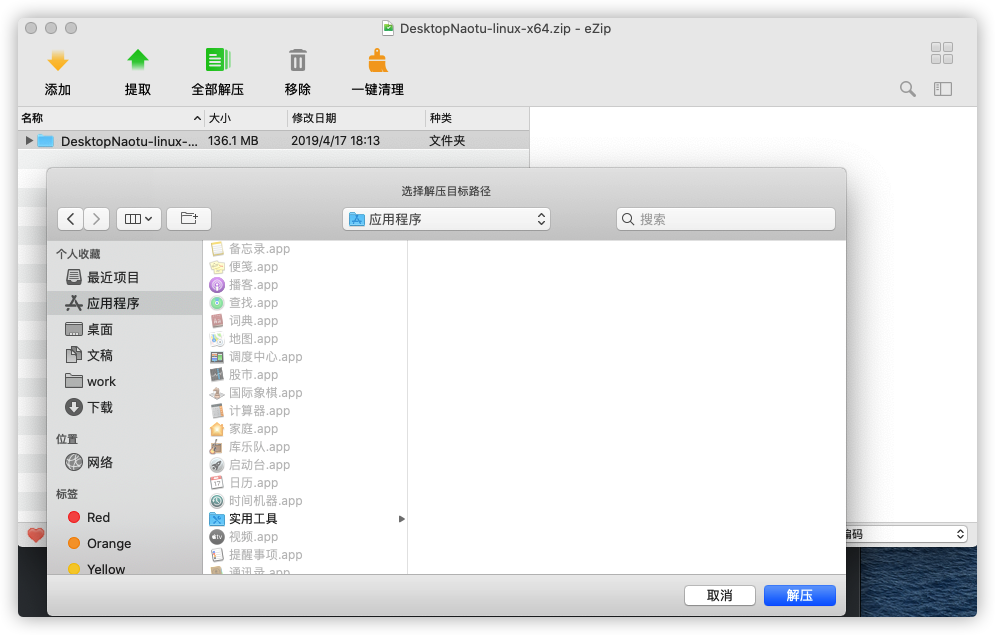
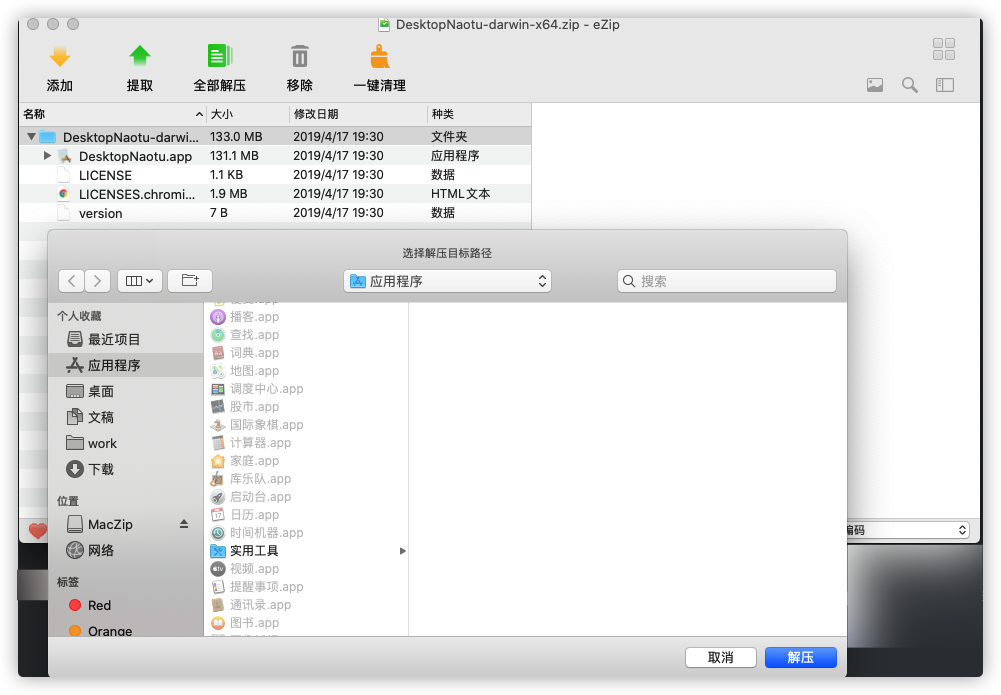
完成

diff --git a/contents/JavaScript/DesktopNaotu/content.md b/contents/JavaScript/DesktopNaotu/content.md
@@ -1,4 +1,4 @@
-# 标题
+# 被收费绘图工具 PUA 了怎么办？来看看这个老实工具吧
 
 ![1](images/1.jpg)
 
@@ -6,15 +6,15 @@
 
 大家好！这里是 HelloGitHub 推出的[《讲解开源项目》](https://github.com/HelloGitHub-Team/Article)系列，今天给大家带来的一款基于 Electron 和 PHP 实现的**桌面工具**开源项目——**DesktopNaotu**（桌面版脑图）。
 
-不知道各位小伙伴有没有发现，现在许多工作岗位与图表制作的接触越来越多，时不时给你来个需求，就像渣 * 在 PUA 你。市面上的多数图表制作软件要么收费，要么让充 VIP 。充个月卡，很有可能只用了1次。这不是浪费钱嘛！
+不知道各位小伙伴有没有发现，现在许多工作岗位与图表制作的接触越来越多，时不时给你来个需求。市面上的多数图表制作软件要么收费，要么让充 VIP 。充个月卡，很有可能只用了1次。这两件事加在一起就像渣 * 一边 PUA 你，一边还骗你钱！
 
-如果你身边有这样的朋友，请善待 TA ，没事给 TA 点个赞
+如果你身边有这样的朋友，请介绍给我 ，我来负责
 
-如果你没有，那你现在有了，很不幸我就是其中之一
+如果你没有，那你现在有了，因为很不幸我就是被 PUA 的一个
 
 ![](images/2.jpg)
 
-好产品收费当然无可厚非，不过你可是 HG 的读者，而我们 HG 的背后是开源世界。DesktopNaotu 是一个开源项目，它也是一个完全免费的脑图制作工具。
+好产品收费当然无可厚非，不过你可是 HG 的读者，而我们 HG 的背后是开源世界！DesktopNaotu 是一个开源项目，它也是一个完全免费的脑图制作工具。
 
 ## 一、介绍
 
@@ -48,13 +48,46 @@ DesktopNaotu 目前支持 MacOS 、Linux 和 Windows 7/10
 
 将DesktopNaotu-darwin-x64文件夹解压至应用程序目录
 
-![image-20210120165025531](images/3.png)
+### ![iShot2021-01-21 10.18.06](images/3.png)2.3 启动
 
-### 2.3 启动
-
-> 注意：现在Mac版还没有中文菜单
+好了，到这一步软件已经能够启动了，但是大家可能注意到了菜单怎么是英文的呢，官网示例明明是中文的呀。没错这里的确是有个bug，不过文心已经找到了解决方案，请看下一步
 
 ![image-20210120165326581](images/4.png)
+
+### 2.4 解决语言问题
+
+目前文心测试了 win10 和 mac 两个较为常用的平台，发现在 win10 下安装后能够显示中文语言。所以如果是 win10 用户就可以跳过这块内容了。
+
+像文心一样想要使用中文菜单的 mac 用户请放心，文心已将帮你们倘过这个坑了。
+
+<img src="images/5.jpeg" style="zoom:40%;" />
+
+#### 2.4.1 语言设置
+
+在终端输入以下命令
+
+```shell
+ cd '~/Library/Application Support/desktopnaotu'
+ vi naotu.config.json
+```
+
+接下来会看到以下信息，将其中的 locale: en 改为 locale: zh_CN
+
+```json
+{"locale":"en","defSavePath":"/Users/caim014/Library/Application Support/desktopnaotu/backup","isAutoSave":true,"recentMaxNum":5,"recently":[{"time":"2021-01-21 18:07:58","path":"/Users/caim014/Library/Application Support/desktopnaotu/backup/Main Topic1.km"},{"time":"2021-01-20 15:57:05","path":"/Users/caim014/Library/Application Support/desktopnaotu/backup/Main Topic.km"}],"version":"v0.1"}
+```
+
+最后 esc 并输入以下内容后回车
+
+```shell
+:wq
+```
+
+重启 Desktopnaotu 程序就能看到效果了
+
+![](images/6.png)
+
+好啦，到这为止你就可以正常使用 Desktopnaotu 来绘制脑图了。
 
 ## 三、技术栈
 
@@ -69,5 +102,15 @@ DesktopNaotu 目前支持 MacOS 、Linux 和 Windows 7/10
 
 ## 四、最后
 
-本人学艺不精，对
+在今天的文章中比较有意思的是设置语言问题，由于官方也没有针对这个问题做解释，加上之前我也没有接触过 Electron 框架，对桌面程序的配置文件也没有太多了解。为了解决语言设置问题，也是费了很大一番功夫，当然也可能是我比较菜: )
+
+1. 查阅项目仓库的issue。没有找到相关提问
+2. 加入官方QQ群询问官方。官方开发手边没有 mac，无法直接帮忙解决，但是给了重要线索—— naotu.config.json 文件
+3. 使用 asar 工具解压 app.asar 在根目录寻找 naotu.config.json 文件。绕了很大的圈子还没解决，因为不在根目录下
+
+最后是克隆代码到本地在编译时在控制台输出发现了 naotu.config.json 文件的路径。过程中也想放弃推荐这个开源项目，虽然我也可以只拿 win10 平台做演示，但我认为这就等于将《开源讲解》中的**讲解**抛弃了。
+
+这也算是做这个系列的乐趣之一了，之后也会给官方提交 PR 在 Readme 中补充这一点。
+
+如果你喜欢这篇文章，请你给我点个赞吧，这将是我继续坚持下去的最大动力！
 
